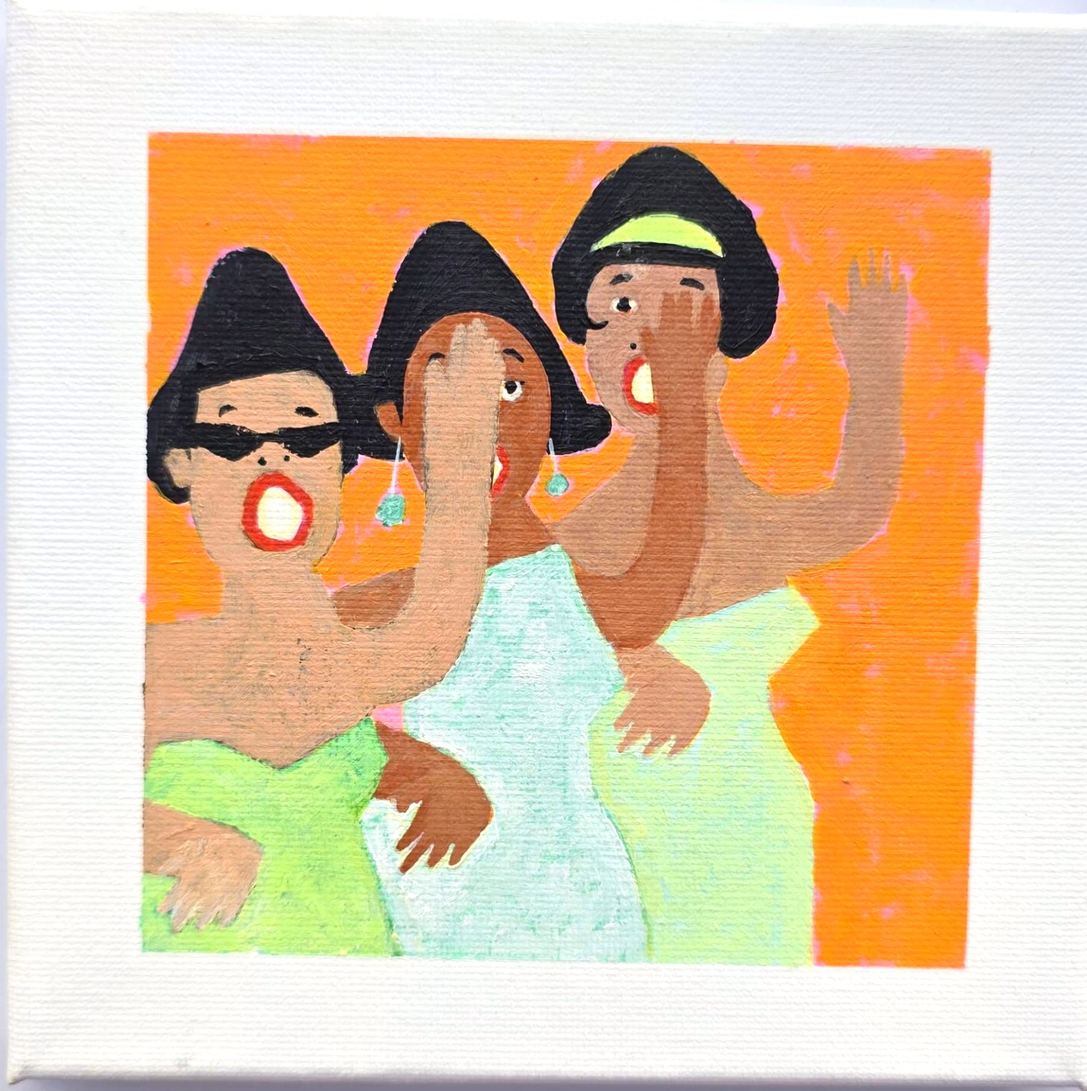
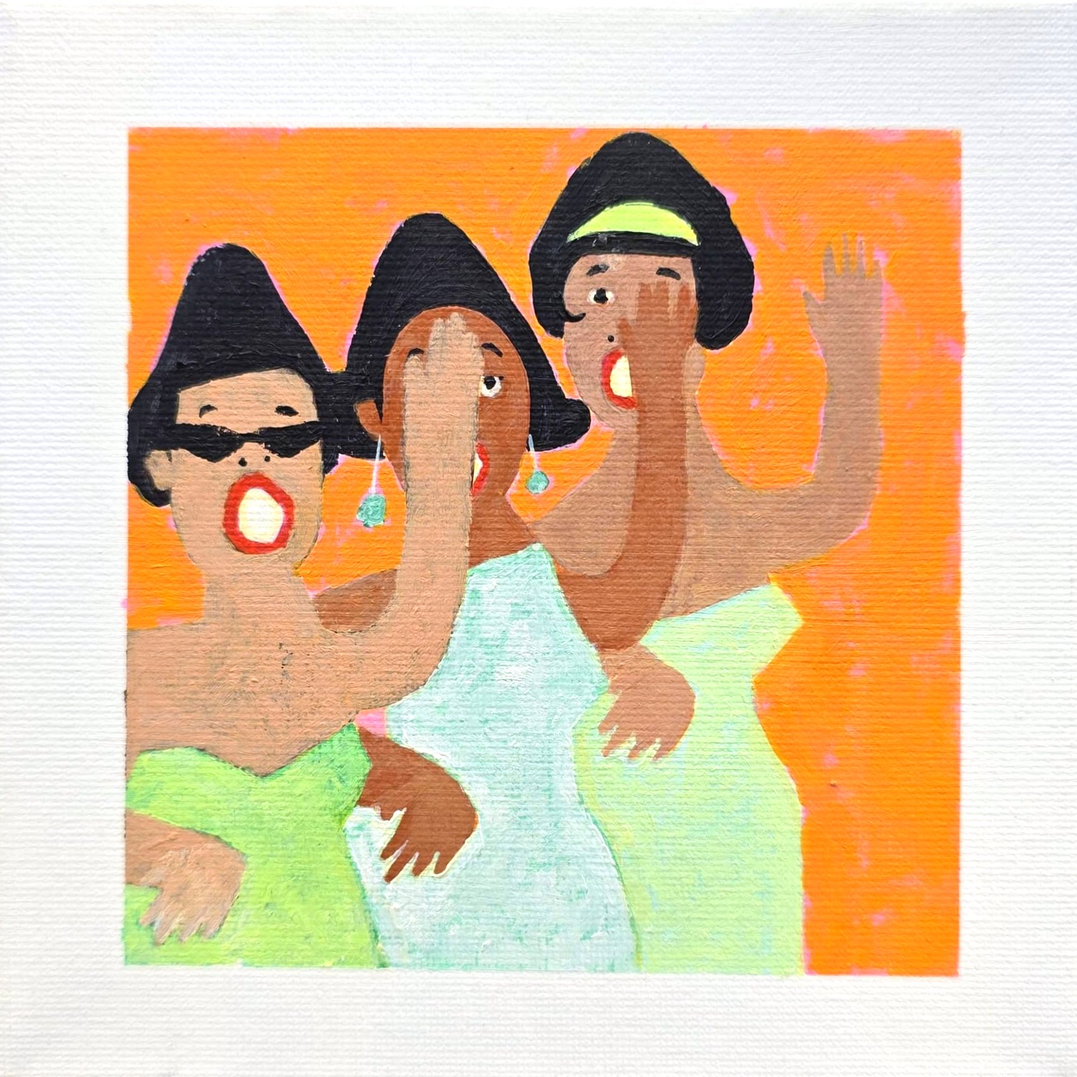
Straighten new series

diff --git a/index.html b/index.html
@@ -138,7 +138,7 @@ dialog::backdrop { background: var(--bg) }
 </dialog>
 
 <script>
-const V = "20261111b";
+const V = "20261111c";
 const WORKS = [
   { id: "n0002", t: "New series, no. 1", m: "Acrylic on canvas", s: "15 × 15 cm", c: "new" },
   { id: "n0003", t: "New series, no. 2", m: "Acrylic on canvas", s: "15 × 15 cm", c: "new" },
